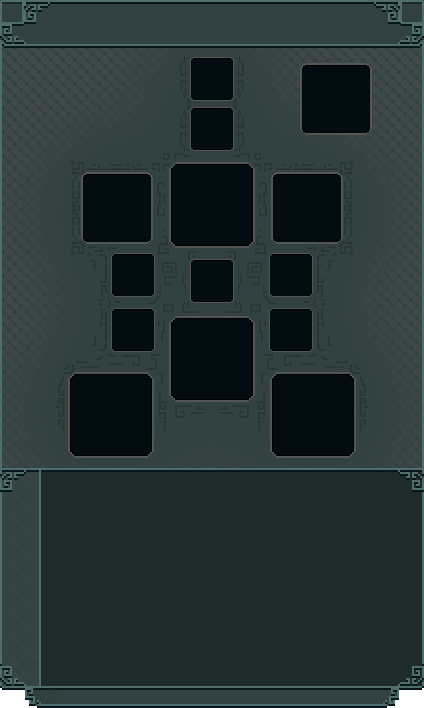
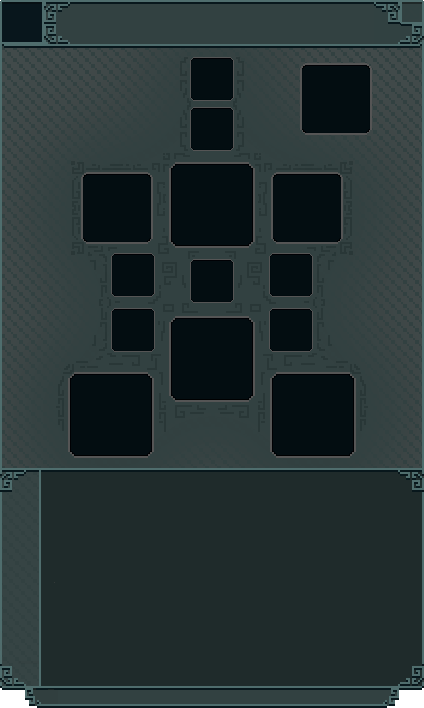
reenabled inventory slots

Changed region(s): [[0.0, 0.0, 0.1533, 0.0621]]

diff --git a/voxygen/src/hud/bag.rs b/voxygen/src/hud/bag.rs
@@ -3,11 +3,15 @@ use super::{
     item_imgs::{ItemImgs, ItemKey},
     Event as HudEvent, TEXT_COLOR,
 };
-use crate::ui::{fonts::ConrodVoxygenFonts, ImageFrame, Tooltip, TooltipManager, Tooltipable};
+use crate::{
+    i18n::VoxygenLocalization,
+    ui::{fonts::ConrodVoxygenFonts, ImageFrame, Tooltip, TooltipManager, Tooltipable},
+};
 use client::Client;
+use common::comp::Stats;
 use conrod_core::{
     color, image,
-    widget::{self, Button, Image, Rectangle},
+    widget::{self, Button, Image, Rectangle, Text},
     widget_ids, Color, Colorable, Positionable, Sizeable, Widget, WidgetCommon,
 };
 
@@ -28,6 +32,8 @@ widget_ids! {
         tooltip[],
         bg,
         bg_frame,
+        char_art,
+        inventory_title,
     }
 }
 
@@ -43,6 +49,8 @@ pub struct Bag<'a> {
     rot_imgs: &'a ImgsRot,
     tooltip_manager: &'a mut TooltipManager,
     pulse: f32,
+    localized_strings: &'a std::sync::Arc<VoxygenLocalization>,
+    stats: &'a Stats,
 }
 
 impl<'a> Bag<'a> {
@@ -54,6 +62,8 @@ impl<'a> Bag<'a> {
         rot_imgs: &'a ImgsRot,
         tooltip_manager: &'a mut TooltipManager,
         pulse: f32,
+        localized_strings: &'a std::sync::Arc<VoxygenLocalization>,
+        stats: &'a Stats,
     ) -> Self {
         Self {
             client,
@@ -64,6 +74,8 @@ impl<'a> Bag<'a> {
             rot_imgs,
             tooltip_manager,
             pulse,
+            localized_strings,
+            stats,
         }
     }
 }
@@ -106,7 +118,9 @@ impl<'a> Widget for Bag<'a> {
             Some(inv) => inv,
             None => return None,
         };
-
+        let exp_percentage = (self.stats.exp.current() as f64) / (self.stats.exp.maximum() as f64);
+        let exp_treshold = format!("{}/{}", self.stats.exp.current(), self.stats.exp.maximum());
+        let level = (self.stats.level.level()).to_string();
         // Tooltips
         let item_tooltip = Tooltip::new({
             // Edge images [t, b, r, l]
@@ -128,7 +142,6 @@ impl<'a> Widget for Bag<'a> {
         .desc_text_color(TEXT_COLOR);
 
         // BG
-
         Image::new(self.imgs.inv_bg)
             .w_h(424.0, 708.0)
             .bottom_right_with_margins_on(ui.window, 60.0, 5.0)
@@ -138,6 +151,17 @@ impl<'a> Widget for Bag<'a> {
             .w_h(424.0, 708.0)
             .middle_of(state.ids.bg)
             .set(state.ids.bg_frame, ui);
+        // Title
+        Text::new(&format!(
+            "{}{}",
+            &self.stats.name,
+            &self.localized_strings.get("hud.bag.inventory")
+        ))
+        .mid_top_with_margin_on(state.ids.bg_frame, 9.0)
+        .font_id(self.fonts.cyri.conrod_id)
+        .font_size(self.fonts.cyri.scale(24))
+        .color(TEXT_COLOR)
+        .set(state.ids.inventory_title, ui);
 
         // Close button
         if Button::image(self.imgs.close_btn)
@@ -151,6 +175,17 @@ impl<'a> Widget for Bag<'a> {
             event = Some(Event::Close);
         }
 
+        // Char Pixel Art
+        Image::new(self.imgs.char_art)
+            .w_h(40.0, 37.0)
+            .top_left_with_margins_on(state.ids.bg, 4.0, 2.0)
+            .set(state.ids.char_art, ui);
+
+        // Alignment for Grid
+        Rectangle::fill_with([360.0, 200.0], color::TRANSPARENT)
+            .bottom_left_with_margins_on(state.ids.bg_frame, 29.0, 44.0)
+            .scroll_kids_vertically()
+            .set(state.ids.inv_alignment, ui);
         /*
         // Bag parts
         Image::new(self.imgs.bag_bot)
@@ -165,13 +200,7 @@ impl<'a> Widget for Bag<'a> {
         Image::new(self.imgs.bag_top)
             .w_h(58.0 * BAG_SCALE, 9.0 * BAG_SCALE)
             .up_from(state.ids.bag_mid, 0.0)
-            .set(state.ids.bag_top, ui);
-
-        // Alignment for Grid
-        Rectangle::fill_with([56.0 * BAG_SCALE, mid_height], color::TRANSPARENT)
-            .top_left_with_margins_on(state.ids.bag_mid, 0.0, 3.0 * BAG_SCALE)
-            .scroll_kids_vertically()
-            .set(state.ids.inv_alignment, ui);
+            .set(state.ids.bag_top, ui);*/
 
         // Create available inventory slot widgets
         if state.ids.inv_slots.len() < inventory.len() {
@@ -197,8 +226,8 @@ impl<'a> Widget for Bag<'a> {
 
         // Display inventory contents
         for (i, item) in inventory.slots().iter().enumerate() {
-            let x = i % 5;
-            let y = i / 5;
+            let x = i % 9;
+            let y = i / 9;
 
             let is_selected = Some(i) == state.selected_slot;
 
@@ -211,15 +240,15 @@ impl<'a> Widget for Bag<'a> {
             })
             .top_left_with_margins_on(
                 state.ids.inv_alignment,
-                0.0 + y as f64 * (40.0 + 2.0),
-                0.0 + x as f64 * (40.0 + 2.0),
+                0.0 + y as f64 * (40.0),
+                0.0 + x as f64 * (40.0),
             )
             .wh(if is_selected { [40.0; 2] } else { [40.0; 2] })
-            .image_color(if is_selected {
+            /*.image_color(if is_selected {
                 color::WHITE
             } else {
                 color::DARK_YELLOW
-            });
+            })*/;
 
             let slot_widget_clicked = if let Some(item) = item {
                 slot_widget
@@ -288,8 +317,6 @@ impl<'a> Widget for Bag<'a> {
                 state.update(|s| s.selected_slot = None);
             }
         }
-
-        */
 
         event
     }

diff --git a/voxygen/src/hud/buttons.rs b/voxygen/src/hud/buttons.rs
@@ -11,8 +11,6 @@ widget_ids! {
         bag,
         bag_text,
         bag_show_map,
-        character_button,
-        character_button_bg,
         map_button,
         qlog_button,
         qlog_button_bg,
@@ -169,15 +167,6 @@ impl<'a> Widget for Buttons<'a> {
             .w_h(28.0, 25.0)
             .left_from(state.ids.map_button, 10.0)
             .set(state.ids.spellbook_button_bg, ui);
-        Image::new(self.imgs.character_button)
-            .w_h(27.0, 25.0)
-            .left_from(state.ids.spellbook_button_bg, 10.0)
-            .set(state.ids.character_button_bg, ui);
-        Image::new(self.imgs.qlog_button)
-            .w_h(23.0, 25.0)
-            .left_from(state.ids.character_button_bg, 10.0)
-            .set(state.ids.qlog_button_bg, ui);
-
         // Other Windows can only be accessed when `Settings` is closed.
         // Opening `Settings` will close all other Windows, including the `Bag`.
         // Opening the `Map` won't close the previously displayed windows.
@@ -216,42 +205,6 @@ impl<'a> Widget for Buttons<'a> {
                 .was_clicked()
             {
                 return Some(Event::ToggleSpell);
-            }
-
-            // 4 Char-Window
-            if Button::image(self.imgs.character_button)
-                .w_h(27.0, 25.0)
-                .left_from(state.ids.spellbook_button, 10.0)
-                .hover_image(self.imgs.character_hover)
-                .press_image(self.imgs.character_press)
-                .label("C")
-                .label_font_id(self.fonts.cyri.conrod_id)
-                .label_font_size(10)
-                .label_color(TEXT_COLOR)
-                .label_y(conrod_core::position::Relative::Scalar(-7.0))
-                .label_x(conrod_core::position::Relative::Scalar(10.0))
-                .set(state.ids.character_button, ui)
-                .was_clicked()
-            {
-                return Some(Event::ToggleCharacter);
-            }
-
-            // 5 Quest-Log
-            if Button::image(self.imgs.qlog_button)
-                .w_h(23.0, 25.0)
-                .left_from(state.ids.character_button, 10.0)
-                .hover_image(self.imgs.qlog_hover)
-                .press_image(self.imgs.qlog_press)
-                .label("L")
-                .label_font_id(self.fonts.cyri.conrod_id)
-                .label_font_size(10)
-                .label_color(TEXT_COLOR)
-                .label_y(conrod_core::position::Relative::Scalar(-7.0))
-                .label_x(conrod_core::position::Relative::Scalar(10.0))
-                .set(state.ids.qlog_button, ui)
-                .was_clicked()
-            {
-                return Some(Event::ToggleQuest);
             }
         }
 

diff --git a/voxygen/src/hud/img_ids.rs b/voxygen/src/hud/img_ids.rs
@@ -22,16 +22,6 @@ image_ids! {
     pub struct Imgs {
         <VoxelGraphic>
 
-        // Bag
-        bag_contents: "voxygen.element.frames.bag",
-        inv_grid: "voxygen.element.frames.inv_grid",
-        inv_slot: "voxygen.element.buttons.inv_slot",
-        inv_slot_sel: "voxygen.element.buttons.inv_slot_sel",
-        grid_inv: "voxygen.element.buttons.grid_inv",
-        bag_top: "voxygen.element.bag.top",
-        bag_mid: "voxygen.element.bag.mid",
-        bag_bot: "voxygen.element.bag.bot",
-
         // Skillbar
         xp_bar_mid: "voxygen.element.skillbar.xp_bar_mid",
         xp_bar_left: "voxygen.element.skillbar.xp_bar_left",
@@ -142,7 +132,6 @@ image_ids! {
         indicator_mmap_3: "voxygen.element.buttons.indicator_mmap_3",
 
         // Crosshair
-
         crosshair_outer_round: "voxygen.element.misc_bg.crosshair_outer_1",
         crosshair_outer_round_edges: "voxygen.element.misc_bg.crosshair_outer_2",
         crosshair_outer_edges: "voxygen.element.misc_bg.crosshair_outer_3",
@@ -153,7 +142,6 @@ image_ids! {
         crosshair_bg_pressed: "voxygen.element.misc_bg.crosshair_bg_pressed",
 
         // Checkboxes and Radio buttons
-
         check: "voxygen.element.buttons.radio.inactive",
         check_mo: "voxygen.element.buttons.radio.inactive_hover",
         check_press: "voxygen.element.buttons.radio.press",
@@ -257,6 +245,9 @@ image_ids! {
         // Inventory
         inv_bg: "voxygen.element.misc_bg.inv_bg",
         inv_frame: "voxygen.element.misc_bg.inv_frame",
+        char_art: "voxygen.element.icons.character",
+        inv_slot: "voxygen.element.buttons.inv_slot",
+        inv_slot_sel: "voxygen.element.buttons.inv_slot_sel",
 
 
         not_found:"voxygen.element.not_found",

diff --git a/voxygen/src/hud/mod.rs b/voxygen/src/hud/mod.rs
@@ -1636,6 +1636,9 @@ impl Hud {
 
         // Bag contents
         if self.show.bag {
+            let ecs = client.state().ecs();
+            let stats = ecs.read_storage::<comp::Stats>();
+            let player_stats = stats.get(client.entity()).unwrap();
             match Bag::new(
                 client,
                 &self.imgs,
@@ -1644,6 +1647,8 @@ impl Hud {
                 &self.rot_imgs,
                 tooltip_manager,
                 self.pulse,
+                &self.voxygen_i18n,
+                &player_stats,
             )
             .set(self.ids.bag, ui_widgets)
             {

diff --git a/voxygen/src/hud/minimap.rs b/voxygen/src/hud/minimap.rs
@@ -213,7 +213,7 @@ impl<'a> Widget for MiniMap<'a> {
         } else {
             Image::new(self.imgs.mmap_frame_closed)
                 .w_h(174.0 * SCALE, 18.0 * SCALE)
-                .top_right_with_margins_on(ui.window, 0.0, 0.0)
+                .top_right_with_margins_on(ui.window, 0.0, 5.0)
                 .set(state.ids.mmap_frame, ui);
         }
 

diff --git a/voxygen/src/hud/character_window.rs b/voxygen/src/hud/character_window.rs
@@ -98,10 +98,6 @@ impl<'a> CharacterWindow<'a> {
     }
 }
 
-/*pub struct State {
-    ids: Ids,
-}*/
-
 pub enum Event {
     Close,
 }
